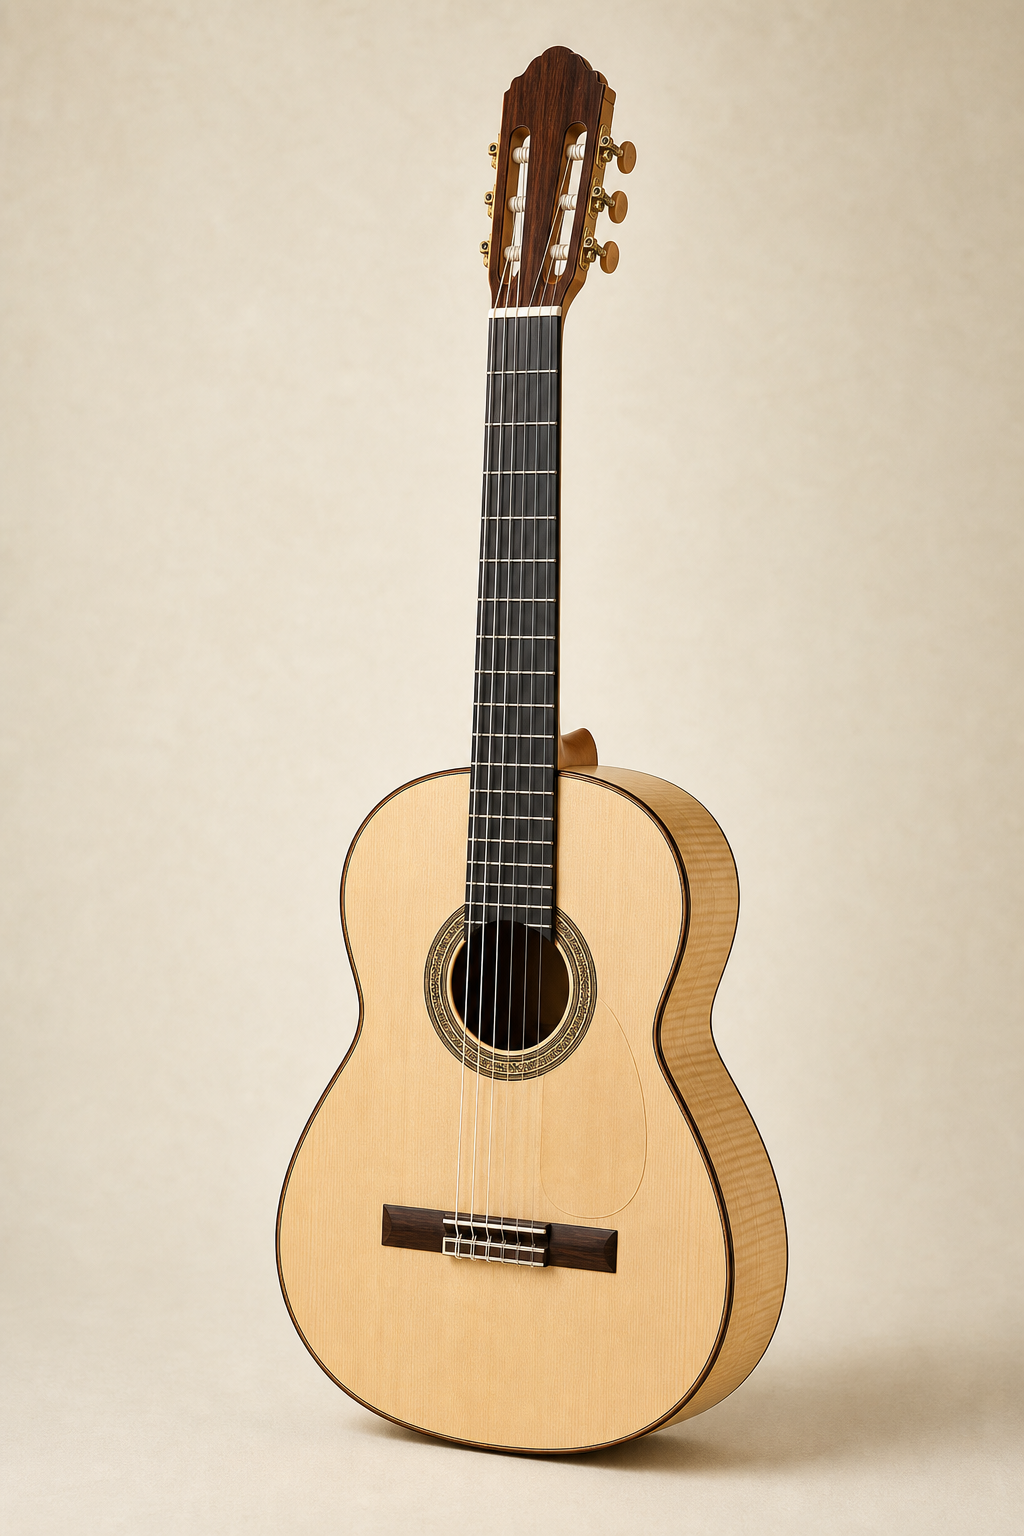
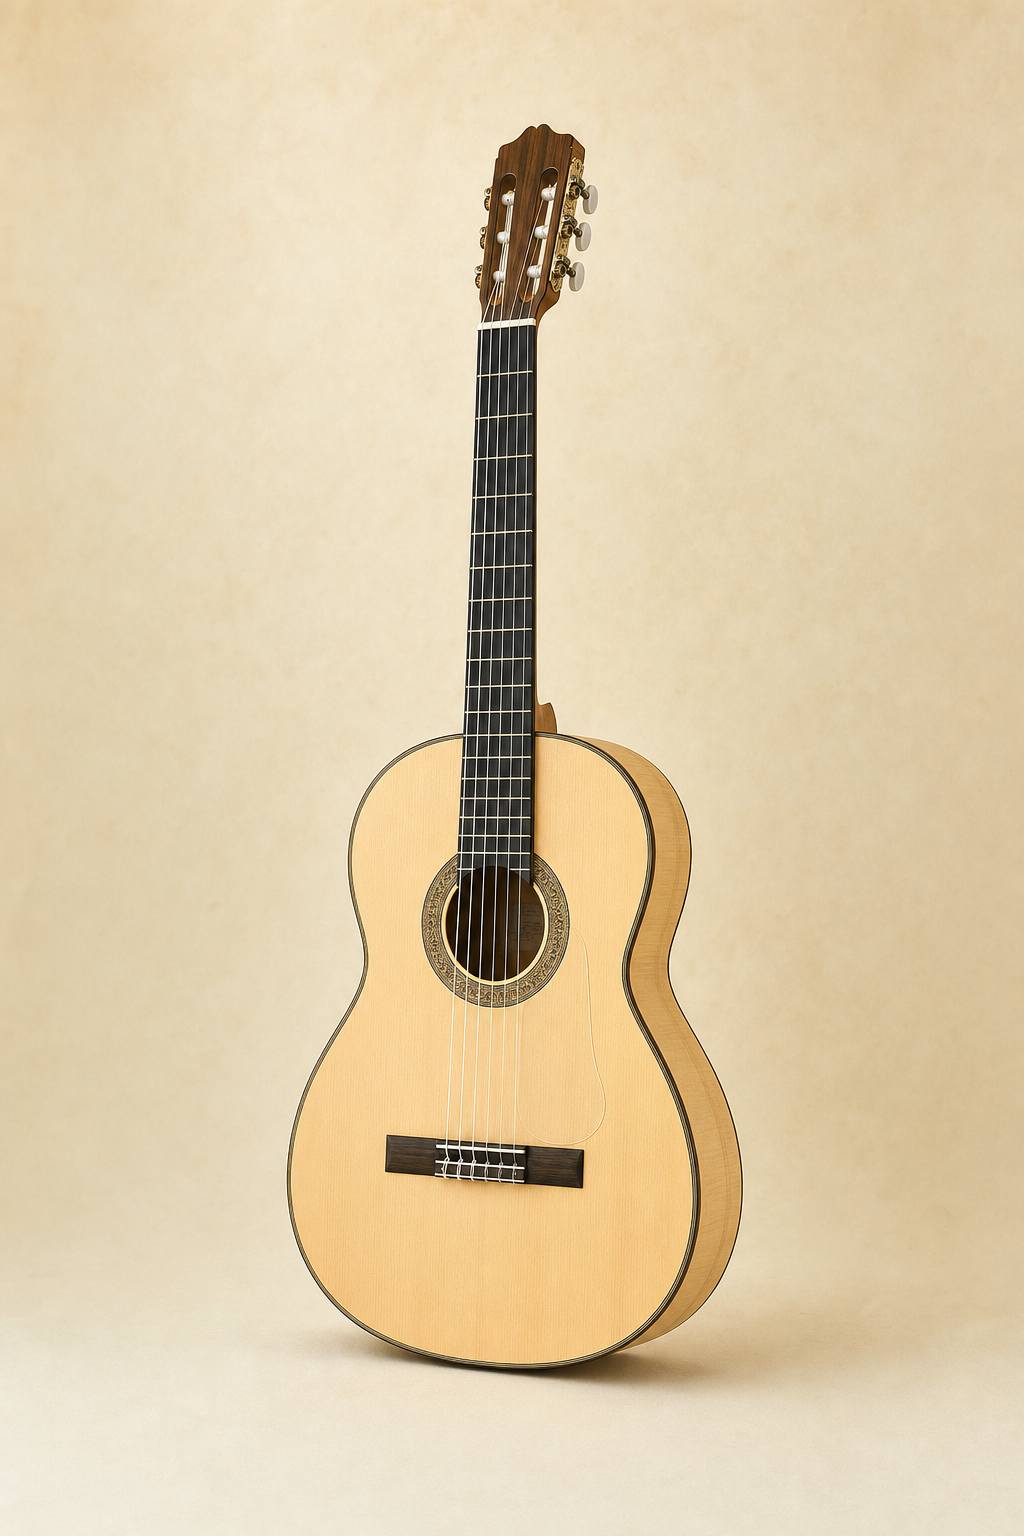
Vicente: true full-bleed guitar heroes — feathered ambient extend + regenerated photos
Vince flagged the photo reading as a boxed print inside the column. The
column is now one continuous surface at every viewport ratio:
- blurred cover copy of the photo extends its own backdrop (no flat
  color can match the photos' lighting gradients)
- sharp layer contained on top with padding-aware feather masks (CSS
  vars) melting its edges into the blur; header-safe top zone kept
- warm vignette unifies both layers under one light
- blanca and negra regenerated (gpt-image-2, documented recipe + new
  mandatory all-sides margin clause) with warm cream backdrops matched
  to La Clasica — closes the "blanca mat reads cooler" backlog item;
  home cards now show full headstocks as well
- flex/max-height attempt reverted: percentage max-height against the
  stretched grid column overflowed at short viewports

diff --git a/sites/vicente/src/styles/global.css b/sites/vicente/src/styles/global.css
@@ -425,17 +425,47 @@ html:not(.js) .laceria path { stroke-dashoffset: 0; }
 .site-header.solid { background: var(--nogal); border-bottom: 1px solid var(--line-dark); }
 
 .gp-hero { background: var(--nogal); color: var(--on-dark); display: grid; grid-template-columns: 1fr minmax(320px, 44%); min-height: 100svh; }
-.gp-hero-media { position: relative; background: var(--marfil-2); overflow: hidden; }
+/* Full-bleed AND whole-instrument at every viewport ratio, three layers:
+   1. a blurred cover copy of the photo extends its own backdrop across the
+      column (no flat color can match the photos' lighting gradients);
+   2. the sharp photo sits centered at natural contain size, its outer edges
+      feather-masked into the blur (the photos carry ≥10% backdrop margin on
+      every side by recipe, so the feather never touches the instrument);
+   3. a warm vignette puts both layers under one light.
+   Container padding reserves the fixed-header zone — without it, wide/short
+   viewports (fit-by-height) hide the headstock behind the header bar. */
+.gp-hero-media {
+  --pt: clamp(110px, 13vh, 160px);  /* header-safe top */
+  --px: clamp(24px, 3.5vw, 48px);
+  --pb: clamp(28px, 4.5vh, 56px);
+  --fz: 64px;                        /* feather depth into the photo edge */
+  position: relative; background: var(--marfil-2); overflow: hidden;
+}
 .gp-hero-media img {
-  /* contain, not cover: the whole instrument or nothing — multiply onto the
-     mat makes the letterbox invisible since the backdrop matches the marfil.
-     The top padding matters: the fixed header overlays this column, so the
-     contain box must start below it or wide/short viewports (fit-by-height)
-     hide the headstock behind the header bar. */
-  position: absolute; inset: 0; width: 100%; height: 100%;
+  position: absolute; inset: 0; z-index: 1;
+  width: 100%; height: 100%;
   object-fit: contain; object-position: center;
-  padding: clamp(110px, 13vh, 160px) clamp(24px, 3.5vw, 48px) clamp(28px, 4.5vh, 56px);
-  mix-blend-mode: multiply;
+  padding: var(--pt) var(--px) var(--pb);
+  -webkit-mask-image:
+    linear-gradient(90deg, transparent var(--px), #000 calc(var(--px) + var(--fz)), #000 calc(100% - var(--px) - var(--fz)), transparent calc(100% - var(--px))),
+    linear-gradient(180deg, transparent var(--pt), #000 calc(var(--pt) + var(--fz)), #000 calc(100% - var(--pb) - var(--fz)), transparent calc(100% - var(--pb)));
+  mask-image:
+    linear-gradient(90deg, transparent var(--px), #000 calc(var(--px) + var(--fz)), #000 calc(100% - var(--px) - var(--fz)), transparent calc(100% - var(--px))),
+    linear-gradient(180deg, transparent var(--pt), #000 calc(var(--pt) + var(--fz)), #000 calc(100% - var(--pb) - var(--fz)), transparent calc(100% - var(--pb)));
+  -webkit-mask-composite: source-in;
+  mask-composite: intersect;
+}
+.gp-hero-media .gp-bleed {
+  position: absolute; inset: 0; z-index: 0;
+  width: 100%; height: 100%; max-width: none; max-height: none;
+  object-fit: cover;
+  filter: blur(34px) saturate(1.04);
+  transform: scale(1.12); /* keeps blur's soft edges outside the column */
+  -webkit-mask-image: none; mask-image: none;
+}
+.gp-hero-media::after {
+  content: ""; position: absolute; inset: 0; z-index: 2; pointer-events: none;
+  background: radial-gradient(115% 92% at 50% 40%, transparent 55%, rgba(38,24,17,.2) 100%);
 }
 .gp-hero-body {
   display: flex; flex-direction: column; justify-content: center;
@@ -448,8 +478,7 @@ html:not(.js) .laceria path { stroke-dashoffset: 0; }
 .gp-note { margin-top: var(--s3); font-size: 13px; letter-spacing: .14em; text-transform: uppercase; color: var(--on-dark-faint); }
 @media (max-width: 860px) {
   .gp-hero { grid-template-columns: 1fr; }
-  .gp-hero-media { order: -1; min-height: 74svh; }
-  .gp-hero-media img { padding: 96px 20px 24px; }
+  .gp-hero-media { order: -1; min-height: 74svh; --pt: 96px; --px: 20px; --pb: 24px; --fz: 44px; }
   .gp-hero-body { padding-top: var(--s6); }
 }
 

diff --git a/sites/vicente/DESIGN.md b/sites/vicente/DESIGN.md
@@ -44,7 +44,7 @@ Never let an accent drift back toward red, and never introduce a monospace — t
 
 ## Asset recipes
 
-- Guitars (catalog): gpt-image-2, portrait 1024×1536, warm aged-ivory seamless backdrop, **anatomy clause is mandatory**: *"long slender neck joining the body exactly at the twelfth fret, nineteen frets total, slotted headstock with three tuners per side, ONE single bridge with tie-block, six nylon strings."* Vince reads fret joins — an 11-fret join got a candidate rejected. Inspect every render before use.
+- Guitars (catalog): gpt-image-2, portrait 1024×1536, warm aged-ivory seamless backdrop, **anatomy clause is mandatory**: *"long slender neck joining the body exactly at the twelfth fret, nineteen frets total, slotted headstock with three tuners per side, ONE single bridge with tie-block, six nylon strings."* Vince reads fret joins — an 11-fret join got a candidate rejected. Inspect every render before use. **Also mandatory: generous empty backdrop margin on ALL sides (≥10% of frame)** — the guitar-page hero feathers the photo edges into a blurred self-extension, and the feather needs that margin (photos without headroom got headstocks eaten twice).
 - Portraits: warm window-light chiaroscuro, half-shadow, dark linen/canvas aprons, workshop bokeh with hanging guitars. Vince has face veto.
 - Beware real-world names: one workshop render produced a legible "Manuel Reyes" poster (a real Granada luthier) — cropped out via `object-position: 30% center`. Check generated text in backgrounds.
 
@@ -55,7 +55,7 @@ English warm and declarative with one poetic turn per section; Spanish is idioma
 ## Revisit backlog (Vince: "I will revisit at some point for additional details")
 
 1. Etiqueta composite: at full zoom, ink still slightly overrides string highlights — a string-aware overlay (pixel-sampled) was attempted and time-boxed; refine if the image gets used larger than ~700px.
-2. La Blanca's arch mat reads slightly cooler than its siblings (its photo backdrop) — could regenerate or color-match.
+2. ~~La Blanca's arch mat reads slightly cooler than its siblings~~ — resolved 2026-07-13: blanca and negra regenerated with warm cream backdrops matched to La Clásica (plus all-sides margins).
 3. Second insignia surface: the headstock logo composite was planned but not built.
 4. Workshop image: consider regenerating without any legible poster text at all (currently crop-managed).
 5. Possible portrait-orientation hero film variant for mobile (current 16:9 crops tight on 390px).
